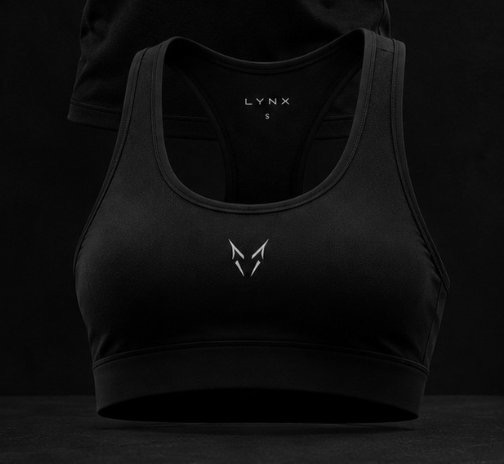
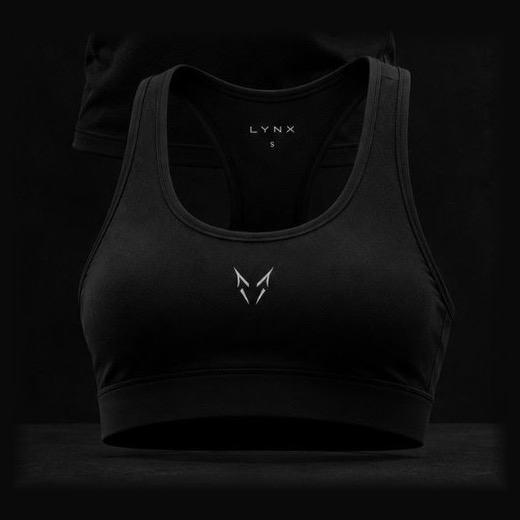
Fix product card image aspect ratio to 1:1 uncropped

diff --git a/styles.css b/styles.css
@@ -323,9 +323,8 @@ h1, h2, h3, .kicker, .nav a, .bag-trigger, .btn-solid, .btn-link, .filter-tab {
 
 .product-media {
   position: relative;
-  aspect-ratio: 4 / 3.7;
-  max-height: 310px;
-  background: var(--surface);
+  aspect-ratio: 1 / 1;
+  background: #08090b;
   overflow: hidden;
   margin-bottom: 14px;
   border: 1px solid var(--line);
@@ -334,7 +333,7 @@ h1, h2, h3, .kicker, .nav a, .bag-trigger, .btn-solid, .btn-link, .filter-tab {
 .product-media img {
   width: 100%;
   height: 100%;
-  object-fit: cover;
+  object-fit: contain;
   display: block;
   transition: transform 0.6s cubic-bezier(0.16, 1, 0.3, 1);
 }
